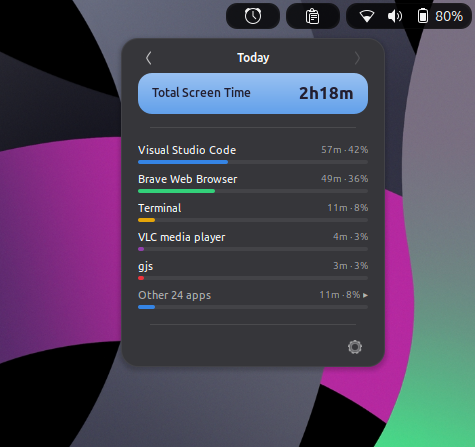
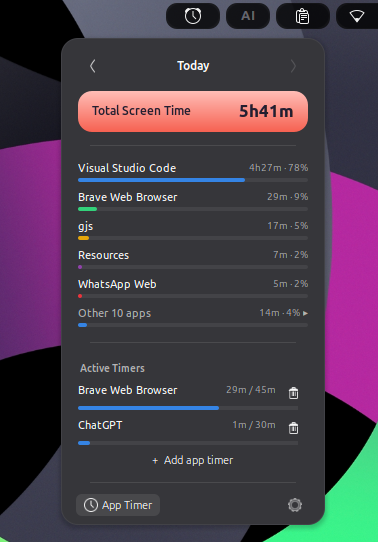
project ready with v1.1.0

diff --git a/README.md b/README.md
@@ -48,7 +48,7 @@ Open from the gear icon at the bottom of the popup, or:
 gnome-extensions prefs screen-time@gnome-screen-time
 ```
 
-![Settings](assets/settings.png)
+![Settings](assets/Settings.png)
 
 ## Settings
 
